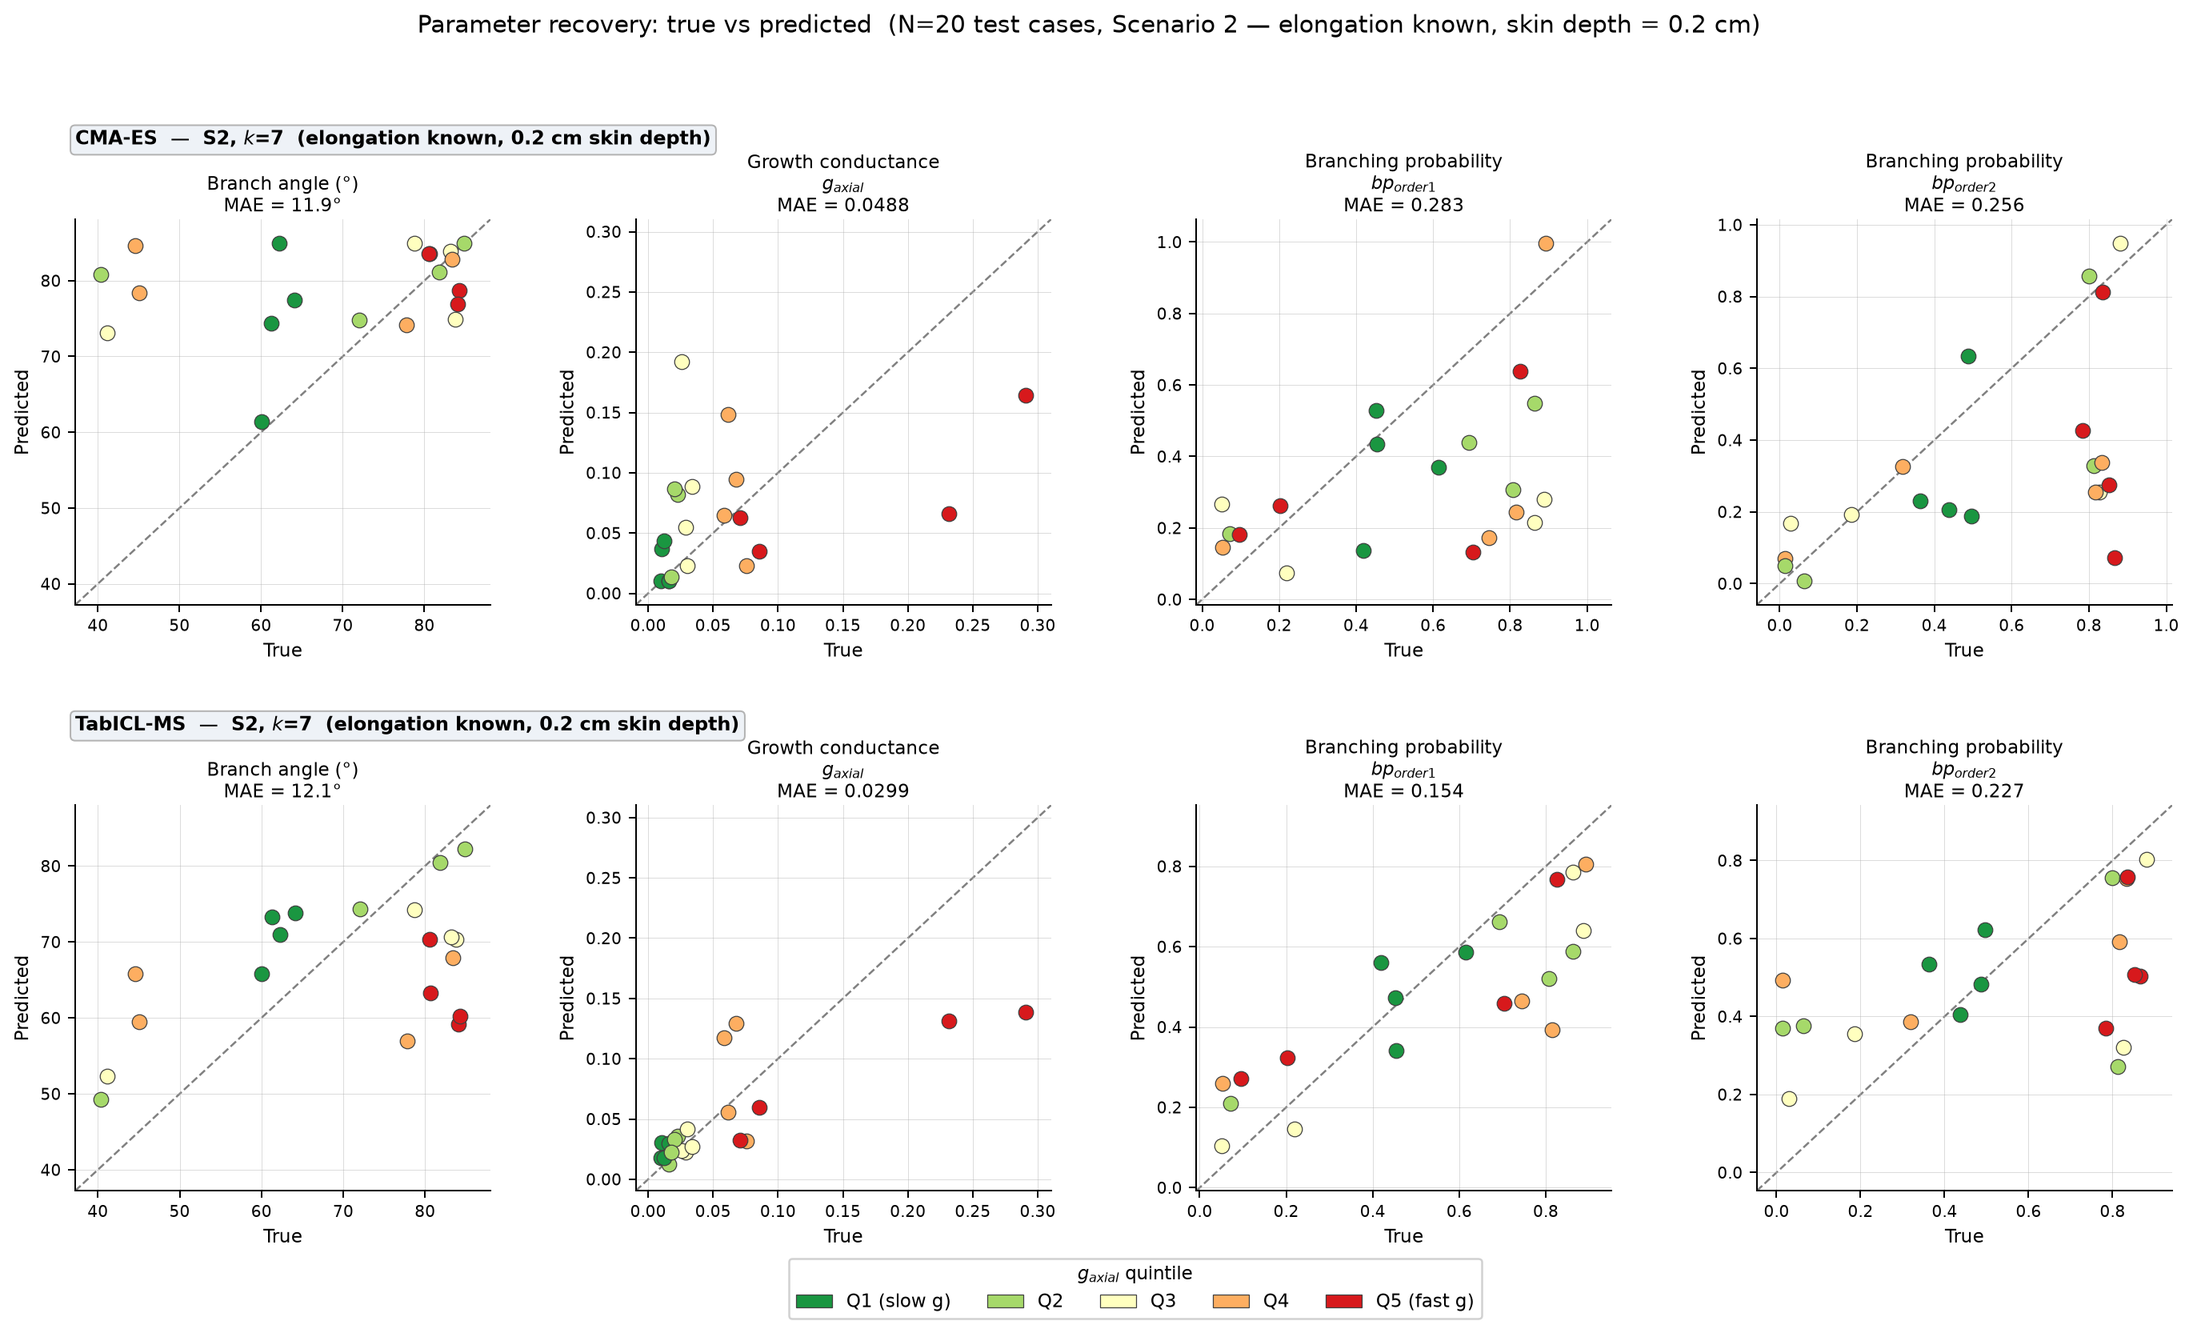
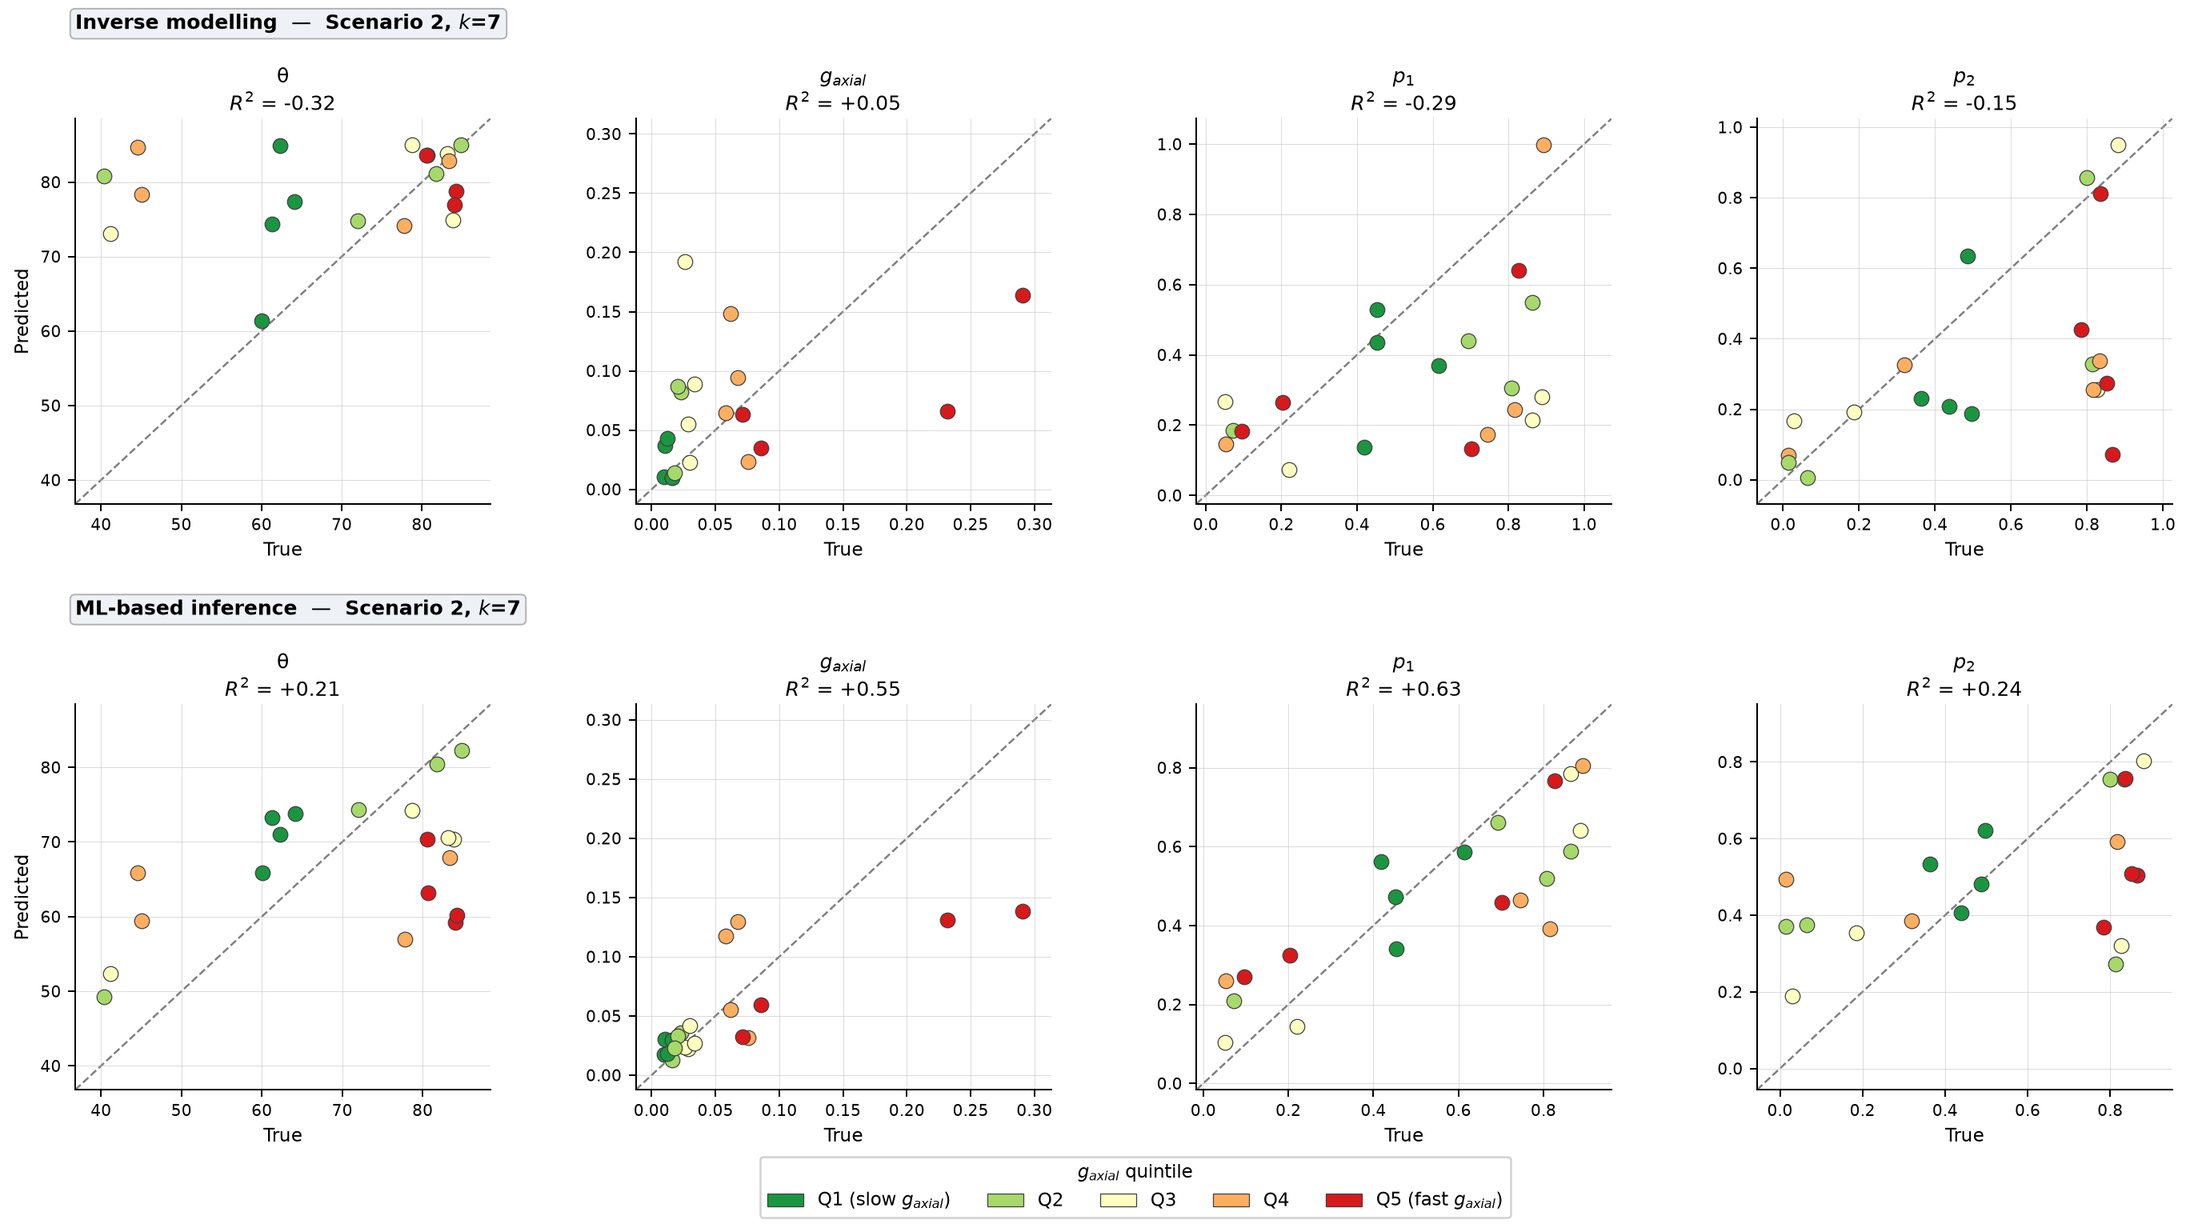
Add R² annotations and expand Fig 3/4 to use paper notation and terminology
Fig 3 (Scenario 1):
- Expand from 4 architectural params to all 8 (add r_min, r_max, k_e, t50)
- Layout changed from 2×4 to 2×8 to accommodate all parameters
- Replace MAE annotation with R² on each panel
- Update param labels to paper notation (θ, g_axial, p_1, p_2, r_min, r_max, k_e, t_50)
- Update row labels to paper terminology (inverse modelling / ML-based inference)
- Remove figure suptitle

Fig 4 (Scenario 2):
- Replace MAE annotation with R² on each panel
- Update param labels to paper notation
- Update row labels to paper terminology
- Remove figure suptitle

diff --git a/publication/scripts/plot_fig3_parameter_recovery.py b/publication/scripts/plot_fig3_parameter_recovery.py
@@ -1,12 +1,13 @@
 """
 plot_fig3_parameter_recovery.py
 
-Figure 3 (2 mm skin depth) — Parameter recovery: true vs predicted for 4 architectural parameters.
+Figure 3 (2 mm skin depth) — Parameter recovery: true vs predicted for all 8 parameters.
 Scenario 1: all 8 parameters unknown (elongation NOT fixed).
-Layout: 2 rows × 4 columns
+Layout: 2 rows × 8 columns
   Row 1: CMA-ES S1MS (k=7, 0.2 cm skin depth)
   Row 2: TabICL-MS (k=7, 0.2 cm skin depth, all parameters unknown)
 Points coloured by g_axial quintile (Q1=slow growth → Q5=fast growth).
+R² annotated on each panel.
 
 Run from project root:
   python3 publication/scripts/plot_fig3_parameter_recovery.py
@@ -31,23 +32,47 @@ TAB_CSV = os.path.join(SBI, "data", "combined",
                         "test_case_eval_multiseed_v2",
                         "results_tabicl_multiseed_v2.csv")
 
-ARCH_PARAMS = ["branch_angle_order1", "g_axial",
-               "branching_prob_order1", "branching_prob_order2"]
+# All 8 parameters: elongation first, then architectural
+ALL_PARAMS = [
+    "elongation_rate_min",
+    "elongation_rate_max",
+    "elongation_logistic_k",
+    "elongation_logistic_t50",
+    "branch_angle_order1",
+    "g_axial",
+    "branching_prob_order1",
+    "branching_prob_order2",
+]
 
 PARAM_LABELS = {
-    "branch_angle_order1":   "Branch angle (°)",
-    "g_axial":               "Growth conductance\n$g_{axial}$",
-    "branching_prob_order1": "Branching probability\n$bp_{order1}$",
-    "branching_prob_order2": "Branching probability\n$bp_{order2}$",
+    "elongation_rate_min":    "$r_{min}$",
+    "elongation_rate_max":    "$r_{max}$",
+    "elongation_logistic_k":  "$k_e$",
+    "elongation_logistic_t50":"$t_{50}$",
+    "branch_angle_order1":    "θ",
+    "g_axial":                "$g_{axial}$",
+    "branching_prob_order1":  "$p_1$",
+    "branching_prob_order2":  "$p_2$",
 }
 
 Q_ORDER  = ["Q1", "Q2", "Q3", "Q4", "Q5"]
 Q_COLORS = {"Q1": "#1a9641", "Q2": "#a6d96a", "Q3": "#ffffbf",
             "Q4": "#fdae61", "Q5": "#d7191c"}
-Q_LABELS = {"Q1": "Q1 (slow g)",  "Q2": "Q2", "Q3": "Q3",
-            "Q4": "Q4", "Q5": "Q5 (fast g)"}
+Q_LABELS = {"Q1": "Q1 (slow $g_{axial}$)", "Q2": "Q2", "Q3": "Q3",
+            "Q4": "Q4", "Q5": "Q5 (fast $g_{axial}$)"}
 
-# ── Load CMA-ES S1MS (k=7, skin_depth=0.2 cm) ─────────────────────────────────
+
+def r2_score(true_vals, pred_vals):
+    mask = ~(np.isnan(true_vals) | np.isnan(pred_vals))
+    t, p = true_vals[mask], pred_vals[mask]
+    if len(t) < 2:
+        return float("nan")
+    ss_res = np.sum((t - p) ** 2)
+    ss_tot = np.sum((t - np.mean(t)) ** 2)
+    return 1 - ss_res / ss_tot if ss_tot > 0 else float("nan")
+
+
+# ── Load CMA-ES S1MS (k=7, skin_depth=0.2 cm) ────────────────────────────────
 
 tc = pd.read_csv(TC_CSV)
 cmae_rows = []
@@ -60,15 +85,15 @@ for _, r in tc.iterrows():
         bp = json.load(f)
     row = {"config": r["config"], "sample_id": int(r["sample_id"]),
            "g_axial_quintile": r["g_axial_quintile"]}
-    for p in ARCH_PARAMS:
-        row[f"true_{p}"]  = float(r[p])
-        row[f"pred_{p}"]  = float(bp[p]) if p in bp else float("nan")
+    for p in ALL_PARAMS:
+        row[f"true_{p}"] = float(r[p]) if p in r.index else float("nan")
+        row[f"pred_{p}"] = float(bp[p]) if p in bp else float("nan")
     cmae_rows.append(row)
 
 cmae_df = pd.DataFrame(cmae_rows)
 print(f"CMA-ES S1MS v2: {len(cmae_df)} test cases loaded")
 
-# ── Load TabICL-MS S1 (k=7, all params unknown) ──────────────────────────────
+# ── Load TabICL-MS S1 (k=7, all params unknown) ───────────────────────────────
 
 tab_raw = pd.read_csv(TAB_CSV)
 tab_s1  = tab_raw[tab_raw["scenario"] == "Scen1: all unknown"].copy()
@@ -80,9 +105,11 @@ for (sid, cfg), grp in tab_s1.groupby(["sample_id", "config"]):
     if len(tc_row) == 0:
         continue
     row["g_axial_quintile"] = tc_row["g_axial_quintile"].values[0]
-    for p in ARCH_PARAMS:
+    for p in ALL_PARAMS:
         prow = grp[grp["parameter"] == p]
         if len(prow) == 0:
+            row[f"true_{p}"] = float("nan")
+            row[f"pred_{p}"] = float("nan")
             continue
         row[f"true_{p}"] = float(prow["true_value"].values[0])
         row[f"pred_{p}"] = float(prow["pred_value"].values[0])
@@ -93,17 +120,17 @@ print(f"TabICL-MS S1 v2: {len(tab_df)} test cases loaded")
 
 # ── Plotting ──────────────────────────────────────────────────────────────────
 
-fig, axes = plt.subplots(2, 4, figsize=(16, 9.5))
-fig.subplots_adjust(left=0.06, right=0.97, top=0.82, bottom=0.11,
-                    hspace=0.52, wspace=0.35)
+fig, axes = plt.subplots(2, 8, figsize=(24, 9.5))
+fig.subplots_adjust(left=0.04, right=0.98, top=0.82, bottom=0.13,
+                    hspace=0.52, wspace=0.42)
 
 ROW_CONFIGS = [
-    (cmae_df, "CMA-ES  —  S1, $k$=7  (all parameters unknown, 0.2 cm skin depth)"),
-    (tab_df,  "TabICL-MS  —  S1, $k$=7  (all parameters unknown, 0.2 cm skin depth)"),
+    (cmae_df, "Inverse modelling  —  Scenario 1, $k$=7"),
+    (tab_df,  "ML-based inference  —  Scenario 1, $k$=7"),
 ]
 
 for row_idx, (df, row_label) in enumerate(ROW_CONFIGS):
-    for col_idx, param in enumerate(ARCH_PARAMS):
+    for col_idx, param in enumerate(ALL_PARAMS):
         ax = axes[row_idx, col_idx]
 
         true_col = f"true_{param}"
@@ -113,47 +140,45 @@ for row_idx, (df, row_label) in enumerate(ROW_CONFIGS):
             ax.set_visible(False)
             continue
 
-        true_vals = df[true_col].values
-        pred_vals = df[pred_col].values
-        mae = np.nanmean(np.abs(pred_vals - true_vals))
+        true_vals = df[true_col].values.astype(float)
+        pred_vals = df[pred_col].values.astype(float)
 
-        lo = min(np.nanmin(true_vals), np.nanmin(pred_vals))
-        hi = max(np.nanmax(true_vals), np.nanmax(pred_vals))
-        pad = (hi - lo) * 0.07
+        mask = ~(np.isnan(true_vals) | np.isnan(pred_vals))
+        tv, pv = true_vals[mask], pred_vals[mask]
+
+        lo = min(tv.min(), pv.min())
+        hi = max(tv.max(), pv.max())
+        pad = (hi - lo) * 0.08
         lo, hi = lo - pad, hi + pad
         ax.plot([lo, hi], [lo, hi], color="0.5", lw=1.0, ls="--", zorder=1)
 
-        for _, r in df.iterrows():
-            ax.scatter(r[true_col], r[pred_col],
+        quintiles = df["g_axial_quintile"].values
+        for i, r in df.iterrows():
+            if np.isnan(true_vals[df.index.get_loc(i)]) or np.isnan(pred_vals[df.index.get_loc(i)]):
+                continue
+            ax.scatter(true_vals[df.index.get_loc(i)], pred_vals[df.index.get_loc(i)],
                        color=Q_COLORS.get(r["g_axial_quintile"], "gray"),
-                       edgecolors="0.25", linewidths=0.5, s=55, zorder=3)
+                       edgecolors="0.25", linewidths=0.5, s=50, zorder=3)
 
-        if param == "branch_angle_order1":
-            mae_str = f"MAE = {mae:.1f}°"
-        elif param == "g_axial":
-            mae_str = f"MAE = {mae:.4f}"
-        else:
-            mae_str = f"MAE = {mae:.3f}"
+        r2 = r2_score(true_vals, pred_vals)
+        r2_str = f"$R^2$ = {r2:+.2f}"
 
         ax.set_xlim(lo, hi)
         ax.set_ylim(lo, hi)
-        ax.set_xlabel("True", fontsize=9)
-        ax.set_ylabel("Predicted", fontsize=9)
-        ax.tick_params(labelsize=8)
+        ax.set_xlabel("True", fontsize=8.5)
+        ax.set_ylabel("Predicted", fontsize=8.5) if col_idx == 0 else ax.set_ylabel("")
+        ax.tick_params(labelsize=7.5)
         ax.grid(True, lw=0.35, alpha=0.5)
         ax.spines["top"].set_visible(False)
         ax.spines["right"].set_visible(False)
 
-        title = f"{PARAM_LABELS[param]}\n{mae_str}"
-        ax.set_title(title, fontsize=9, pad=4)
+        ax.set_title(f"{PARAM_LABELS[param]}\n{r2_str}", fontsize=9.5, pad=4)
 
-    ax0 = axes[row_idx, 0]
-    ax0.set_ylabel("Predicted", fontsize=9)
-    ax0.annotate(row_label,
-                 xy=(0.0, 1.18), xycoords="axes fraction",
-                 fontsize=9.5, fontweight="bold",
-                 ha="left", va="bottom",
-                 bbox=dict(boxstyle="round,pad=0.25", fc="#eef2f7", ec="0.7", lw=0.8))
+    axes[row_idx, 0].annotate(
+        row_label,
+        xy=(0.0, 1.22), xycoords="axes fraction",
+        fontsize=10, fontweight="bold", ha="left", va="bottom",
+        bbox=dict(boxstyle="round,pad=0.25", fc="#eef2f7", ec="0.7", lw=0.8))
 
 # ── Legend ────────────────────────────────────────────────────────────────────
 
@@ -165,9 +190,6 @@ legend_patches = [
 fig.legend(handles=legend_patches, title="$g_{axial}$ quintile",
            loc="lower center", ncol=5, fontsize=9, title_fontsize=9,
            framealpha=0.9, bbox_to_anchor=(0.52, 0.01))
-
-fig.suptitle("Parameter recovery: true vs predicted  (N=20 test cases, Scenario 1 — all parameters unknown, skin depth = 0.2 cm)",
-             fontsize=12, y=0.97)
 
 os.makedirs(os.path.dirname(FIG_OUT), exist_ok=True)
 fig.savefig(FIG_OUT, dpi=180, bbox_inches="tight", facecolor="white")

diff --git a/publication/scripts/plot_fig4_parameter_recovery.py b/publication/scripts/plot_fig4_parameter_recovery.py
@@ -7,6 +7,7 @@ Layout: 2 rows × 4 columns
   Row 1: CMA-ES S2MS (k=7, 0.2 cm skin depth)
   Row 2: TabICL-MS (k=7, 0.2 cm skin depth, elongation known)
 Points coloured by g_axial quintile (Q1=slow growth → Q5=fast growth).
+R² annotated on each panel.
 
 Run from project root:
   python3 publication/scripts/plot_fig4_parameter_recovery.py
@@ -35,19 +36,30 @@ ARCH_PARAMS = ["branch_angle_order1", "g_axial",
                "branching_prob_order1", "branching_prob_order2"]
 
 PARAM_LABELS = {
-    "branch_angle_order1":   "Branch angle (°)",
-    "g_axial":               "Growth conductance\n$g_{axial}$",
-    "branching_prob_order1": "Branching probability\n$bp_{order1}$",
-    "branching_prob_order2": "Branching probability\n$bp_{order2}$",
+    "branch_angle_order1":   "θ",
+    "g_axial":               "$g_{axial}$",
+    "branching_prob_order1": "$p_1$",
+    "branching_prob_order2": "$p_2$",
 }
 
 Q_ORDER  = ["Q1", "Q2", "Q3", "Q4", "Q5"]
 Q_COLORS = {"Q1": "#1a9641", "Q2": "#a6d96a", "Q3": "#ffffbf",
             "Q4": "#fdae61", "Q5": "#d7191c"}
-Q_LABELS = {"Q1": "Q1 (slow g)",  "Q2": "Q2", "Q3": "Q3",
-            "Q4": "Q4", "Q5": "Q5 (fast g)"}
+Q_LABELS = {"Q1": "Q1 (slow $g_{axial}$)", "Q2": "Q2", "Q3": "Q3",
+            "Q4": "Q4", "Q5": "Q5 (fast $g_{axial}$)"}
 
-# ── Load CMA-ES S2MS (k=7, skin_depth=0.2 cm) ─────────────────────────────────
+
+def r2_score(true_vals, pred_vals):
+    mask = ~(np.isnan(true_vals) | np.isnan(pred_vals))
+    t, p = true_vals[mask], pred_vals[mask]
+    if len(t) < 2:
+        return float("nan")
+    ss_res = np.sum((t - p) ** 2)
+    ss_tot = np.sum((t - np.mean(t)) ** 2)
+    return 1 - ss_res / ss_tot if ss_tot > 0 else float("nan")
+
+
+# ── Load CMA-ES S2MS (k=7, skin_depth=0.2 cm) ────────────────────────────────
 
 tc = pd.read_csv(TC_CSV)
 cmae_rows = []
@@ -61,8 +73,8 @@ for _, r in tc.iterrows():
     row = {"config": r["config"], "sample_id": int(r["sample_id"]),
            "g_axial_quintile": r["g_axial_quintile"]}
     for p in ARCH_PARAMS:
-        row[f"true_{p}"]  = float(r[p])
-        row[f"pred_{p}"]  = float(bp[p]) if p in bp else float("nan")
+        row[f"true_{p}"] = float(r[p])
+        row[f"pred_{p}"] = float(bp[p]) if p in bp else float("nan")
     cmae_rows.append(row)
 
 cmae_df = pd.DataFrame(cmae_rows)
@@ -83,6 +95,8 @@ for (sid, cfg), grp in tab_s2.groupby(["sample_id", "config"]):
     for p in ARCH_PARAMS:
         prow = grp[grp["parameter"] == p]
         if len(prow) == 0:
+            row[f"true_{p}"] = float("nan")
+            row[f"pred_{p}"] = float("nan")
             continue
         row[f"true_{p}"] = float(prow["true_value"].values[0])
         row[f"pred_{p}"] = float(prow["pred_value"].values[0])
@@ -98,62 +112,49 @@ fig.subplots_adjust(left=0.06, right=0.97, top=0.82, bottom=0.11,
                     hspace=0.52, wspace=0.35)
 
 ROW_CONFIGS = [
-    (cmae_df, "CMA-ES  —  S2, $k$=7  (elongation known, 0.2 cm skin depth)"),
-    (tab_df,  "TabICL-MS  —  S2, $k$=7  (elongation known, 0.2 cm skin depth)"),
+    (cmae_df, "Inverse modelling  —  Scenario 2, $k$=7"),
+    (tab_df,  "ML-based inference  —  Scenario 2, $k$=7"),
 ]
 
 for row_idx, (df, row_label) in enumerate(ROW_CONFIGS):
+    true_arr = {p: df[f"true_{p}"].values.astype(float) for p in ARCH_PARAMS}
+    pred_arr = {p: df[f"pred_{p}"].values.astype(float) for p in ARCH_PARAMS}
+
     for col_idx, param in enumerate(ARCH_PARAMS):
         ax = axes[row_idx, col_idx]
+        tv = true_arr[param]
+        pv = pred_arr[param]
 
-        true_col = f"true_{param}"
-        pred_col = f"pred_{param}"
-
-        if true_col not in df.columns or pred_col not in df.columns:
-            ax.set_visible(False)
-            continue
-
-        true_vals = df[true_col].values
-        pred_vals = df[pred_col].values
-        mae = np.nanmean(np.abs(pred_vals - true_vals))
-
-        lo = min(np.nanmin(true_vals), np.nanmin(pred_vals))
-        hi = max(np.nanmax(true_vals), np.nanmax(pred_vals))
-        pad = (hi - lo) * 0.07
+        mask = ~(np.isnan(tv) | np.isnan(pv))
+        lo = min(tv[mask].min(), pv[mask].min())
+        hi = max(tv[mask].max(), pv[mask].max())
+        pad = (hi - lo) * 0.08
         lo, hi = lo - pad, hi + pad
         ax.plot([lo, hi], [lo, hi], color="0.5", lw=1.0, ls="--", zorder=1)
 
-        for _, r in df.iterrows():
-            ax.scatter(r[true_col], r[pred_col],
-                       color=Q_COLORS.get(r["g_axial_quintile"], "gray"),
+        for i, (t_val, p_val, q) in enumerate(zip(tv, pv, df["g_axial_quintile"])):
+            if np.isnan(t_val) or np.isnan(p_val):
+                continue
+            ax.scatter(t_val, p_val,
+                       color=Q_COLORS.get(q, "gray"),
                        edgecolors="0.25", linewidths=0.5, s=55, zorder=3)
 
-        if param == "branch_angle_order1":
-            mae_str = f"MAE = {mae:.1f}°"
-        elif param == "g_axial":
-            mae_str = f"MAE = {mae:.4f}"
-        else:
-            mae_str = f"MAE = {mae:.3f}"
-
+        r2 = r2_score(tv, pv)
         ax.set_xlim(lo, hi)
         ax.set_ylim(lo, hi)
         ax.set_xlabel("True", fontsize=9)
-        ax.set_ylabel("Predicted", fontsize=9)
+        ax.set_ylabel("Predicted", fontsize=9) if col_idx == 0 else ax.set_ylabel("")
         ax.tick_params(labelsize=8)
         ax.grid(True, lw=0.35, alpha=0.5)
         ax.spines["top"].set_visible(False)
         ax.spines["right"].set_visible(False)
+        ax.set_title(f"{PARAM_LABELS[param]}\n$R^2$ = {r2:+.2f}", fontsize=10, pad=4)
 
-        title = f"{PARAM_LABELS[param]}\n{mae_str}"
-        ax.set_title(title, fontsize=9, pad=4)
-
-    ax0 = axes[row_idx, 0]
-    ax0.set_ylabel("Predicted", fontsize=9)
-    ax0.annotate(row_label,
-                 xy=(0.0, 1.18), xycoords="axes fraction",
-                 fontsize=9.5, fontweight="bold",
-                 ha="left", va="bottom",
-                 bbox=dict(boxstyle="round,pad=0.25", fc="#eef2f7", ec="0.7", lw=0.8))
+    axes[row_idx, 0].annotate(
+        row_label,
+        xy=(0.0, 1.22), xycoords="axes fraction",
+        fontsize=10, fontweight="bold", ha="left", va="bottom",
+        bbox=dict(boxstyle="round,pad=0.25", fc="#eef2f7", ec="0.7", lw=0.8))
 
 # ── Legend ────────────────────────────────────────────────────────────────────
 
@@ -166,8 +167,6 @@ fig.legend(handles=legend_patches, title="$g_{axial}$ quintile",
            loc="lower center", ncol=5, fontsize=9, title_fontsize=9,
            framealpha=0.9, bbox_to_anchor=(0.52, 0.01))
 
-fig.suptitle("Parameter recovery: true vs predicted  (N=20 test cases, Scenario 2 — elongation known, skin depth = 0.2 cm)",
-             fontsize=12, y=0.97)
-
+os.makedirs(os.path.dirname(FIG_OUT), exist_ok=True)
 fig.savefig(FIG_OUT, dpi=180, bbox_inches="tight", facecolor="white")
 print(f"Saved → {FIG_OUT}")
